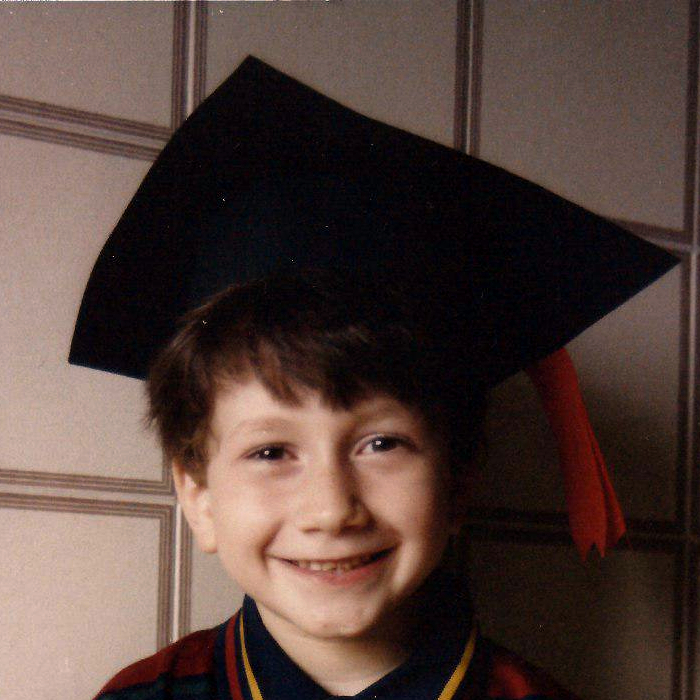
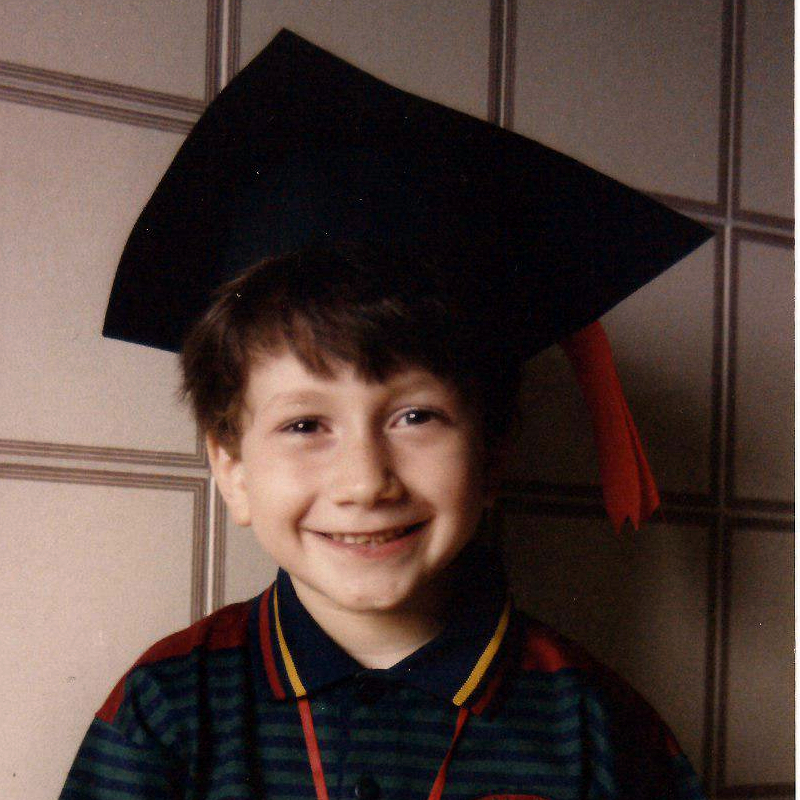
Replaced miky-face img.

diff --git a/dist/custom/css/style.min.css b/dist/custom/css/style.min.css
@@ -1,1 +1,1 @@
-body{font-family:'Roboto',sans-serif}.starter-template{padding:40px 15px;text-align:center}.nounderline a:focus,a:hover{color:#333;text-decoration:none}.navbar{opacity:.9;background-color:#B1EDE8}.navbar-inverse .navbar-nav>.active>a{background-color:#000068}.navbar-inverse .navbar-nav>li>a{color:#000068}.navbar-inverse .navbar-toggle:focus,.navbar-inverse .navbar-toggle{background-color:#000068}.navbar-inverse .navbar-nav>.active>a,.navbar-inverse .navbar-nav>.active>a:focus,.navbar-inverse .navbar-nav>.active>a:hover{background-color:#000068}.navbar-brand{padding:5px 5px 0 15px}.navbar-logo{height:100%}.g-map{width:100%;height:300px}.carousel{height:500px;margin-bottom:60px}.carousel-caption{z-index:10}.carousel .item{height:500px;background-color:#777}.carousel-inner>.item>img{position:absolute;top:0;left:0;min-width:100%;height:500px}.full-viewport{display:inline-block;height:100vh;width:100%;text-align:center;overflow:hidden}.margin-top-50{margin-top:50px}.margin-top-30{margin-top:30px}@media (max-width:768px){.margin-top-sm-30{margin-top:30px}}.margin-top-10{margin-top:10px}@media (min-width:768px){.margin-left-right-30{margin:0 30px 0 30px}}.scroll-reveal{height:200px}.js-scroll-reveal{visibility:hidden}.v-center{position:relative;top:50%;transform:translateY(-50%)}@media (min-width:768px){.v-center-sm{position:relative;top:50%;transform:translateY(-50%)}}nav[canvas]{position:fixed;top:0;width:100%;background-color:transparent;height:60px;line-height:60px;font-size:24px;font-weight:100;text-align:center}[off-canvas]{background:url('../img/sidebar/symphony.png') repeat}[off-canvas] ul.menu li a{color:#333;font-size:20px;display:block;background-color:rgba(255,255,255,0);-webkit-transition:all 200ms ease-in-out 0s;transition:all 200ms ease-in-out 0s}.menu-button{background-color:rgba(255,255,255,0.5)}img#logo-menu{max-width:200px}[canvas=container] .main-image{position:fixed;width:100%;height:500px;top:0;left:0;z-index:-1}[canvas=container] .bg-japan-lantern{background:url('../img/jumbotron-background/japan-lantern.jpg') no-repeat 50% 50%;background-size:cover}[canvas=container] .bg-wedding{background:url('../img/jumbotron-background/wedding.jpg') no-repeat center center;background-size:cover}[canvas=container] .bg-lecco{background:url('../img/jumbotron-background/lecco.jpg') no-repeat 57% 40%;background-size:cover}[canvas=container] .bg-contacts{background:url('../img/jumbotron-background/contacts.jpg') no-repeat 57% 40%;background-size:cover}[canvas=container] .bg-seychelles{background:url('../img/jumbotron-background/seychelles.jpg') no-repeat 50% 50%;background-size:cover}[canvas=container] .jumbotron{height:500px;color:white;text-shadow:#444 0 1px 1px}[canvas=container] .jumbotron h2{text-shadow:4px 2px 4px rgba(0,0,0,0.6)}[canvas=container] .jumbotron .jumbotron-logo{max-height:200px}.card-container{padding-top:15px;padding-bottom:15px}.card-container .card{background-color:#fff;padding:0 0 0 0;margin-left:20px;margin-right:20px;position:relative;height:500px}.card-container .card .green-check{position:absolute;margin:-25px;height:15%}@media (min-width:768px){.card-container .card{border:1px solid rgba(0,0,0,0.125);border-radius:.25rem;height:500px}}.card-container .card .card-img-top{height:200px;width:100%;border-top-right-radius:.25rem;border-top-left-radius:.25rem}.card-container .card .card-block{padding:10px}.card-container .card .card-price{position:absolute;bottom:0;padding:10px;width:100%}@media (min-width:768px){.card-container .cards-divider{display:none}}#gift-modal .step-2{display:none}#gift-modal .step-error{display:none}@media (min-width:768px){.row-eq-height-sm{display:-webkit-box;display:-webkit-flex;display:-ms-flexbox;display:flex}}.row-eq-height{display:-webkit-box;display:-webkit-flex;display:-ms-flexbox;display:flex}@media (min-width:768px){.no-md-margin{margin:0}}.thumbnail-container{position:relative;width:300px;height:300px;overflow:hidden;-webkit-box-align:center;-webkit-box-pack:center;display:-webkit-box}.thumbnail-container img{position:absolute;left:50%;top:50%;height:100%;width:auto;-webkit-transform:translate(-50%, -50%);-ms-transform:translate(-50%, -50%);transform:translate(-50%, -50%)}@media (min-width:768px){.display-none-md{display:none}}footer{padding:5px 30px 5px 30px;margin-top:30px;color:#a0a0a0}footer hr{margin-top:0;margin-bottom:5px}.col-button{color:#333}.btn-facebook{color:#FFFFFF;background-color:#3B5998;border-color:#3B4B98}.btn-facebook:hover,.btn-facebook:focus,.btn-facebook:active,.btn-facebook.active,.open .dropdown-toggle.btn-facebook{color:#FFFFFF;background-color:#3B3B98;border-color:#3B4B98}.btn-facebook:active,.btn-facebook.active,.open .dropdown-toggle.btn-facebook{background-image:none}.btn-facebook.disabled,.btn-facebook[disabled],fieldset[disabled] .btn-facebook,.btn-facebook.disabled:hover,.btn-facebook[disabled]:hover,fieldset[disabled] .btn-facebook:hover,.btn-facebook.disabled:focus,.btn-facebook[disabled]:focus,fieldset[disabled] .btn-facebook:focus,.btn-facebook.disabled:active,.btn-facebook[disabled]:active,fieldset[disabled] .btn-facebook:active,.btn-facebook.disabled.active,.btn-facebook[disabled].active,fieldset[disabled] .btn-facebook.active{background-color:#3B5998;border-color:#3B4B98}.btn-facebook .badge{color:#3B5998;background-color:#FFFFFF}.btn-instagram{color:#FFFFFF;background-color:#FF1493;border-color:#D90476}.btn-instagram:hover,.btn-instagram:focus,.btn-instagram:active,.btn-instagram.active,.open .dropdown-toggle.btn-instagram{color:#FFFFFF;background-color:#E01280;border-color:#D90476}.btn-instagram:active,.btn-instagram.active,.open .dropdown-toggle.btn-instagram{background-image:none}.btn-instagram.disabled,.btn-instagram[disabled],fieldset[disabled] .btn-instagram,.btn-instagram.disabled:hover,.btn-instagram[disabled]:hover,fieldset[disabled] .btn-instagram:hover,.btn-instagram.disabled:focus,.btn-instagram[disabled]:focus,fieldset[disabled] .btn-instagram:focus,.btn-instagram.disabled:active,.btn-instagram[disabled]:active,fieldset[disabled] .btn-instagram:active,.btn-instagram.disabled.active,.btn-instagram[disabled].active,fieldset[disabled] .btn-instagram.active{background-color:#FF1493;border-color:#D90476}.btn-instagram .badge{color:#FF1493;background-color:#FFFFFF}.btn-whatsapp{color:#FFFFFF;background-color:#01E675;border-color:#04B85E}.btn-whatsapp:hover,.btn-whatsapp:focus,.btn-whatsapp:active,.btn-whatsapp.active,.open .dropdown-toggle.btn-whatsapp{color:#FFFFFF;background-color:#00A653;border-color:#04B85E}.btn-whatsapp:active,.btn-whatsapp.active,.open .dropdown-toggle.btn-whatsapp{background-image:none}.btn-whatsapp.disabled,.btn-whatsapp[disabled],fieldset[disabled] .btn-whatsapp,.btn-whatsapp.disabled:hover,.btn-whatsapp[disabled]:hover,fieldset[disabled] .btn-whatsapp:hover,.btn-whatsapp.disabled:focus,.btn-whatsapp[disabled]:focus,fieldset[disabled] .btn-whatsapp:focus,.btn-whatsapp.disabled:active,.btn-whatsapp[disabled]:active,fieldset[disabled] .btn-whatsapp:active,.btn-whatsapp.disabled.active,.btn-whatsapp[disabled].active,fieldset[disabled] .btn-whatsapp.active{background-color:#01E675;border-color:#04B85E}.btn-whatsapp .badge{color:#01E675;background-color:#FFFFFF}.btn-twitter{color:#FFFFFF;background-color:#1DA1F2;border-color:#0E74B3}.btn-twitter:hover,.btn-twitter:focus,.btn-twitter:active,.btn-twitter.active,.open .dropdown-toggle.btn-twitter{color:#FFFFFF;background-color:#177DBD;border-color:#0E74B3}.btn-twitter:active,.btn-twitter.active,.open .dropdown-toggle.btn-twitter{background-image:none}.btn-twitter.disabled,.btn-twitter[disabled],fieldset[disabled] .btn-twitter,.btn-twitter.disabled:hover,.btn-twitter[disabled]:hover,fieldset[disabled] .btn-twitter:hover,.btn-twitter.disabled:focus,.btn-twitter[disabled]:focus,fieldset[disabled] .btn-twitter:focus,.btn-twitter.disabled:active,.btn-twitter[disabled]:active,fieldset[disabled] .btn-twitter:active,.btn-twitter.disabled.active,.btn-twitter[disabled].active,fieldset[disabled] .btn-twitter.active{background-color:#1DA1F2;border-color:#0E74B3}.btn-twitter .badge{color:#1DA1F2;background-color:#FFFFFF}.btn-circle{width:39px;height:39px;text-align:center;padding:6px 0;font-size:12px;line-height:1.42;border-radius:20px}.width-full{width:100%}.row-vertical-align{display:flex;align-items:center}@media (min-width:768px){.row-vertical-align-sm{display:flex;align-items:center}}
+body{font-family:'Roboto',sans-serif}.starter-template{padding:40px 15px;text-align:center}.nounderline a:focus,a:hover{color:#333;text-decoration:none}.navbar{opacity:.9;background-color:#B1EDE8}.navbar-inverse .navbar-nav>.active>a{background-color:#000068}.navbar-inverse .navbar-nav>li>a{color:#000068}.navbar-inverse .navbar-toggle:focus,.navbar-inverse .navbar-toggle{background-color:#000068}.navbar-inverse .navbar-nav>.active>a,.navbar-inverse .navbar-nav>.active>a:focus,.navbar-inverse .navbar-nav>.active>a:hover{background-color:#000068}.navbar-brand{padding:5px 5px 0 15px}.navbar-logo{height:100%}.g-map{width:100%;height:300px}.carousel{height:500px;margin-bottom:60px}.carousel-caption{z-index:10}.carousel .item{height:500px;background-color:#777}.carousel-inner>.item>img{position:absolute;top:0;left:0;min-width:100%;height:500px}.full-viewport{display:inline-block;height:100vh;width:100%;text-align:center;overflow:hidden}.margin-top-50{margin-top:50px}.margin-top-30{margin-top:30px}@media (max-width:768px){.margin-top-sm-30{margin-top:30px}}.margin-top-10{margin-top:10px}@media (min-width:768px){.margin-left-right-30{margin:0 30px 0 30px}}.scroll-reveal{height:200px}.js-scroll-reveal{visibility:hidden}.v-center{position:relative;top:50%;transform:translateY(-50%)}@media (min-width:768px){.v-center-sm{position:relative;top:50%;transform:translateY(-50%)}}nav[canvas]{position:fixed;top:0;width:100%;background-color:transparent;height:60px;line-height:60px;font-size:24px;font-weight:100;text-align:center}[off-canvas]{background:url('../img/sidebar/symphony.png') repeat}[off-canvas] ul.menu li a{color:#333;font-size:20px;display:block;background-color:rgba(255,255,255,0);-webkit-transition:all 200ms ease-in-out 0s;transition:all 200ms ease-in-out 0s}.menu-button{background-color:rgba(255,255,255,0.5)}img#logo-menu{max-width:200px}[canvas=container] .main-image{position:fixed;width:100%;height:500px;top:0;left:0;z-index:-1}[canvas=container] .bg-japan-lantern{background:url('../img/jumbotron-background/japan-lantern.jpg') no-repeat 50% 50%;background-size:cover}[canvas=container] .bg-wedding{background:url('../img/jumbotron-background/wedding.jpg') no-repeat center center;background-size:cover}[canvas=container] .bg-lecco{background:url('../img/jumbotron-background/lecco.jpg') no-repeat 57% 40%;background-size:cover}[canvas=container] .bg-contacts{background:url('../img/jumbotron-background/contacts.jpg') no-repeat 100% 100%;background-size:cover}[canvas=container] .bg-seychelles{background:url('../img/jumbotron-background/seychelles.jpg') no-repeat 50% 50%;background-size:cover}[canvas=container] .jumbotron{height:500px;color:white;text-shadow:#444 0 1px 1px}[canvas=container] .jumbotron h2{text-shadow:4px 2px 4px rgba(0,0,0,0.6)}[canvas=container] .jumbotron .jumbotron-logo{max-height:200px}.card-container{padding-top:15px;padding-bottom:15px}.card-container .card{background-color:#fff;padding:0 0 0 0;margin-left:20px;margin-right:20px;position:relative;height:500px}.card-container .card .green-check{position:absolute;margin:-25px;height:15%}@media (min-width:768px){.card-container .card{border:1px solid rgba(0,0,0,0.125);border-radius:.25rem;height:500px}}.card-container .card .card-img-top{height:200px;width:100%;border-top-right-radius:.25rem;border-top-left-radius:.25rem}.card-container .card .card-block{padding:10px}.card-container .card .card-price{position:absolute;bottom:0;padding:10px;width:100%}@media (min-width:768px){.card-container .cards-divider{display:none}}#gift-modal .step-2{display:none}#gift-modal .step-error{display:none}@media (min-width:768px){.row-eq-height-sm{display:-webkit-box;display:-webkit-flex;display:-ms-flexbox;display:flex}}.row-eq-height{display:-webkit-box;display:-webkit-flex;display:-ms-flexbox;display:flex}@media (min-width:768px){.no-md-margin{margin:0}}.thumbnail-container{position:relative;width:300px;height:300px;overflow:hidden;-webkit-box-align:center;-webkit-box-pack:center;display:-webkit-box}.thumbnail-container img{position:absolute;left:50%;top:50%;height:100%;width:auto;-webkit-transform:translate(-50%, -50%);-ms-transform:translate(-50%, -50%);transform:translate(-50%, -50%)}@media (min-width:768px){.display-none-md{display:none}}footer{padding:5px 30px 5px 30px;margin-top:30px;color:#a0a0a0}footer hr{margin-top:0;margin-bottom:5px}.col-button{color:#333}.btn-facebook{color:#FFFFFF;background-color:#3B5998;border-color:#3B4B98}.btn-facebook:hover,.btn-facebook:focus,.btn-facebook:active,.btn-facebook.active,.open .dropdown-toggle.btn-facebook{color:#FFFFFF;background-color:#3B3B98;border-color:#3B4B98}.btn-facebook:active,.btn-facebook.active,.open .dropdown-toggle.btn-facebook{background-image:none}.btn-facebook.disabled,.btn-facebook[disabled],fieldset[disabled] .btn-facebook,.btn-facebook.disabled:hover,.btn-facebook[disabled]:hover,fieldset[disabled] .btn-facebook:hover,.btn-facebook.disabled:focus,.btn-facebook[disabled]:focus,fieldset[disabled] .btn-facebook:focus,.btn-facebook.disabled:active,.btn-facebook[disabled]:active,fieldset[disabled] .btn-facebook:active,.btn-facebook.disabled.active,.btn-facebook[disabled].active,fieldset[disabled] .btn-facebook.active{background-color:#3B5998;border-color:#3B4B98}.btn-facebook .badge{color:#3B5998;background-color:#FFFFFF}.btn-instagram{color:#FFFFFF;background-color:#FF1493;border-color:#D90476}.btn-instagram:hover,.btn-instagram:focus,.btn-instagram:active,.btn-instagram.active,.open .dropdown-toggle.btn-instagram{color:#FFFFFF;background-color:#E01280;border-color:#D90476}.btn-instagram:active,.btn-instagram.active,.open .dropdown-toggle.btn-instagram{background-image:none}.btn-instagram.disabled,.btn-instagram[disabled],fieldset[disabled] .btn-instagram,.btn-instagram.disabled:hover,.btn-instagram[disabled]:hover,fieldset[disabled] .btn-instagram:hover,.btn-instagram.disabled:focus,.btn-instagram[disabled]:focus,fieldset[disabled] .btn-instagram:focus,.btn-instagram.disabled:active,.btn-instagram[disabled]:active,fieldset[disabled] .btn-instagram:active,.btn-instagram.disabled.active,.btn-instagram[disabled].active,fieldset[disabled] .btn-instagram.active{background-color:#FF1493;border-color:#D90476}.btn-instagram .badge{color:#FF1493;background-color:#FFFFFF}.btn-whatsapp{color:#FFFFFF;background-color:#01E675;border-color:#04B85E}.btn-whatsapp:hover,.btn-whatsapp:focus,.btn-whatsapp:active,.btn-whatsapp.active,.open .dropdown-toggle.btn-whatsapp{color:#FFFFFF;background-color:#00A653;border-color:#04B85E}.btn-whatsapp:active,.btn-whatsapp.active,.open .dropdown-toggle.btn-whatsapp{background-image:none}.btn-whatsapp.disabled,.btn-whatsapp[disabled],fieldset[disabled] .btn-whatsapp,.btn-whatsapp.disabled:hover,.btn-whatsapp[disabled]:hover,fieldset[disabled] .btn-whatsapp:hover,.btn-whatsapp.disabled:focus,.btn-whatsapp[disabled]:focus,fieldset[disabled] .btn-whatsapp:focus,.btn-whatsapp.disabled:active,.btn-whatsapp[disabled]:active,fieldset[disabled] .btn-whatsapp:active,.btn-whatsapp.disabled.active,.btn-whatsapp[disabled].active,fieldset[disabled] .btn-whatsapp.active{background-color:#01E675;border-color:#04B85E}.btn-whatsapp .badge{color:#01E675;background-color:#FFFFFF}.btn-twitter{color:#FFFFFF;background-color:#1DA1F2;border-color:#0E74B3}.btn-twitter:hover,.btn-twitter:focus,.btn-twitter:active,.btn-twitter.active,.open .dropdown-toggle.btn-twitter{color:#FFFFFF;background-color:#177DBD;border-color:#0E74B3}.btn-twitter:active,.btn-twitter.active,.open .dropdown-toggle.btn-twitter{background-image:none}.btn-twitter.disabled,.btn-twitter[disabled],fieldset[disabled] .btn-twitter,.btn-twitter.disabled:hover,.btn-twitter[disabled]:hover,fieldset[disabled] .btn-twitter:hover,.btn-twitter.disabled:focus,.btn-twitter[disabled]:focus,fieldset[disabled] .btn-twitter:focus,.btn-twitter.disabled:active,.btn-twitter[disabled]:active,fieldset[disabled] .btn-twitter:active,.btn-twitter.disabled.active,.btn-twitter[disabled].active,fieldset[disabled] .btn-twitter.active{background-color:#1DA1F2;border-color:#0E74B3}.btn-twitter .badge{color:#1DA1F2;background-color:#FFFFFF}.btn-circle{width:39px;height:39px;text-align:center;padding:6px 0;font-size:12px;line-height:1.42;border-radius:20px}.width-full{width:100%}.row-vertical-align{display:flex;align-items:center}@media (min-width:768px){.row-vertical-align-sm{display:flex;align-items:center}}
